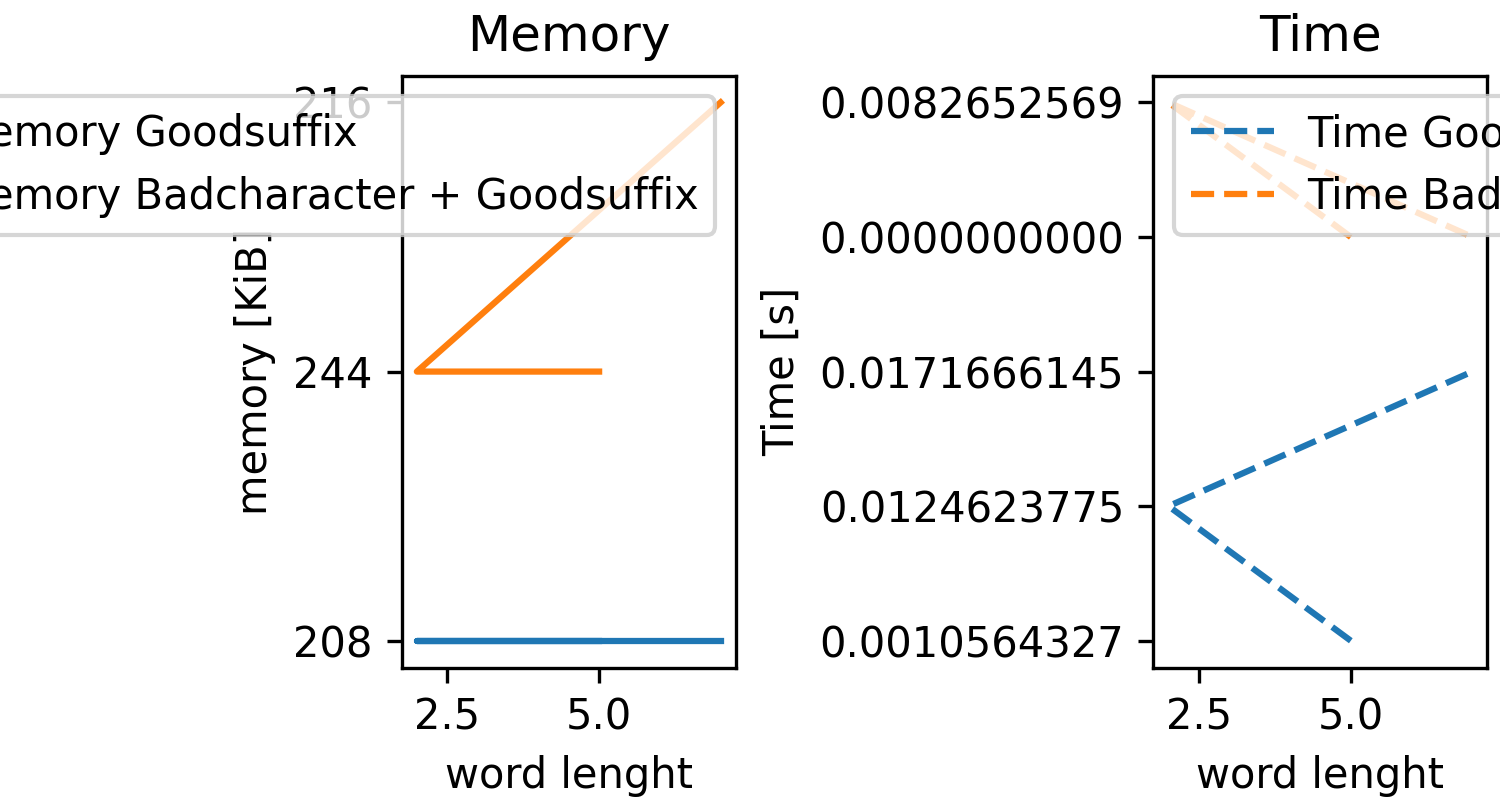
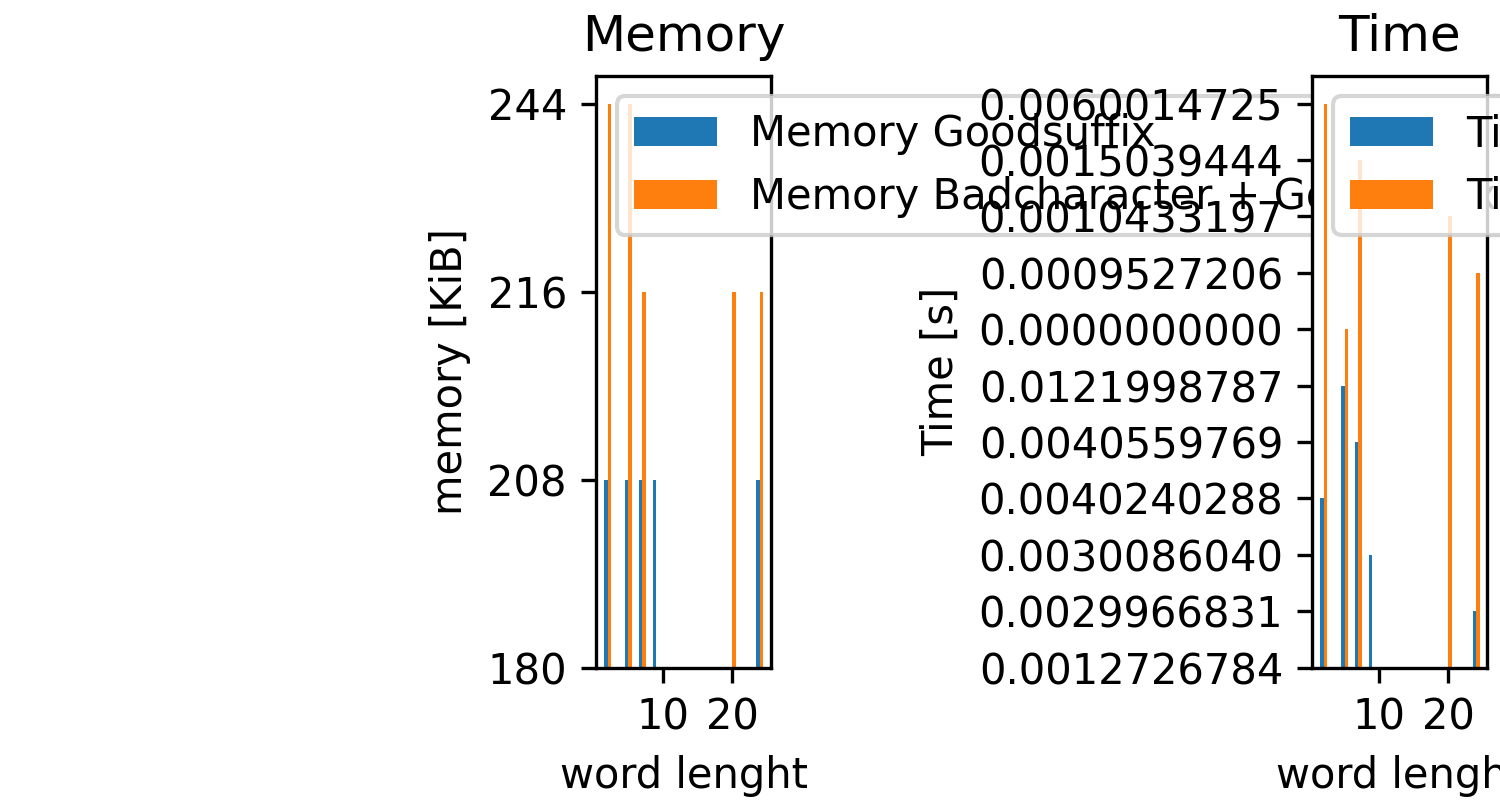
It does something finally :)

diff --git a/src/business_logic/util/graph.py b/src/business_logic/util/graph.py
@@ -1,8 +1,5 @@
-from cProfile import label
-from time import time
 import matplotlib.pyplot as plt
 import pandas as pd
-from pyparsing import line
 
 class Graph:
     """Class to drive graph for visualisation"""
@@ -22,17 +19,32 @@ class Graph:
         df = pd.DataFrame(data_dict)
         print(df)
 
-
-        # Note that even in the OO-style, we use `.pyplot.figure` to create the Figure.
         fig, ax = plt.subplots(1, 2, figsize=(5, 2.7), layout='constrained')
-        ax[0].plot(df[df['Heuristic'] == 'Goodsuffix']['Word lenght'], df[df['Heuristic'] == 'Goodsuffix']['Memory'], label='Memory Goodsuffix')  # Plot some data on the axes.
-        ax[0].plot(df[df['Heuristic'] == 'Badcharacter + Goodsuffix']['Word lenght'], df[df['Heuristic'] == 'Badcharacter + Goodsuffix']['Memory'], label='Memory Badcharacter + Goodsuffix')  # Plot some data on the axes.
-        ax[1].plot(df[df['Heuristic'] == 'Goodsuffix']['Word lenght'], df[df['Heuristic'] == 'Goodsuffix']['Time'], label='Time Goodsuffix', linestyle='--')  # Plot some data on the axes.
-        ax[1].plot(df[df['Heuristic'] == 'Badcharacter + Goodsuffix']['Word lenght'], df[df['Heuristic'] == 'Badcharacter + Goodsuffix']['Time'], label='Time Badcharacter + Goodsuffix', linestyle='--')  # Plot some data on the axes.
+
+        df1_h1 = df[df['Heuristic'] == 'Goodsuffix']
+        df1_h1 = df1_h1.sort_values(by=['Memory'], ascending=True)
+        print(df1_h1)
+        df1_h2 = df[df['Heuristic'] == 'Badcharacter + Goodsuffix']
+        df1_h2 = df1_h2.sort_values(by=['Memory'], ascending=True)
+        print(df1_h2)
+        ax[0].bar(df1_h1['Word lenght'] - 0.25, df1_h1['Memory'], label='Memory Goodsuffix', width = 0.5)  # Plot some data on the axes.
+        ax[0].bar(df1_h2['Word lenght'] + 0.25, df1_h2['Memory'], label='Memory Badcharacter + Goodsuffix', width = 0.5)  # Plot some data on the axes.
+
         ax[0].set_xlabel('word lenght')  # Add an x-label to the axes.
         ax[0].set_ylabel('memory [KiB]')  # Add a y-label to the axes.
         ax[0].set_title("Memory")  # Add a title to the axes.
         ax[0].legend();  # Add a legend.
+
+        df2_h1 = df[df['Heuristic'] == 'Goodsuffix']
+        df2_h1 = df2_h1.sort_values(by=['Time'], ascending=True)
+        print(df2_h1)
+
+        df2_h2 = df[df['Heuristic'] == 'Badcharacter + Goodsuffix']
+        df2_h2 = df2_h2.sort_values(by=['Time'], ascending=True)
+        print(df2_h2)
+        ax[1].bar(df2_h1['Word lenght'] - 0.25, df2_h1['Time'], label='Time Goodsuffix', width = 0.5)  # Plot some data on the axes.
+        ax[1].bar(df2_h2['Word lenght'] + 0.25, df2_h2['Time'], label='Time Badcharacter + Goodsuffix', width = 0.5)  # Plot some data on the axes.
+
         ax[1].set_xlabel('word lenght')  # Add an x-label to the axes.
         ax[1].set_ylabel('Time [s]')  # Add a y-label to the axes.
         ax[1].set_title("Time")  # Add a title to the axes.

diff --git a/src/test/main_test_script.py b/src/test/main_test_script.py
@@ -15,8 +15,6 @@ sys.path.append(parent_subdirectory)
 print("Test set 1: Tekst: Coffea arabica, Chromosome 1c i paterni: ATGCATG, TCTCTCTA, TTCACTACTCTCA")
 
 words = ['ATGCATG', 'TCTCTCTA', 'TTCACTACTCTCA']
-
-
 file = "../../data/chr1.fna" # enter relative path to the data
 #file = "C:\Users\tsretkovic\Desktop\skola\GI\PROJEKAT\chr1.fna.gz"
 
@@ -34,31 +32,31 @@ for word in words:
 
 
 
-###################### Test set 2 #########################
+# ###################### Test set 2 #########################
 
-print("Test set 2: Tekst: Mus pahari chromosome X, i paterni: ATGATG, CTCTCTA, TCACTACTCTCA")
+# print("Test set 2: Tekst: Mus pahari chromosome X, i paterni: ATGATG, CTCTCTA, TCACTACTCTCA")
 
-# TODO: add correct filepath
-words = ['ATGATG', 'CTCTCTA', 'TCACTACTCTCA']
-#file = "C:\Users\tsretkovic\Desktop\skola\GI\PROJEKAT\chr1.fna.gz"
+# # TODO: add correct filepath
+# words = ['ATGATG', 'CTCTCTA', 'TCACTACTCTCA']
+# #file = "C:\Users\tsretkovic\Desktop\skola\GI\PROJEKAT\chr1.fna.gz"
 
-for word in words:
-    # TODO: h1, h2, h1 + h2
-    program_4 = s.Search(file_path=file, word=word, heuristics=[hh.Badcharacter(word, alphabet), hh.Goodsuffix(word)])
-    program_4.do_magic()
-
-
+# for word in words:
+#     # TODO: h1, h2, h1 + h2
+#     program_4 = s.Search(file_path=file, word=word, heuristics=[hh.Badcharacter(word, alphabet), hh.Goodsuffix(word)])
+#     program_4.do_magic()
 
 
-###################### Test set 3 #########################
 
-print("Test set 3: Genom po slobodnom izboru iz NIH baze i proizvoljna 3 paterna različite dužine.")
 
-# TODO: change words and add correct filepath
-words = ['ATGCATG', 'TCTCTCTA', 'TTCACTACTCTCA']
-#file = "C:\Users\tsretkovic\Desktop\skola\GI\PROJEKAT\chr1.fna.gz"
+# ###################### Test set 3 #########################
 
-for word in words:
-    # TODO: h1, h2, h1 + h2
-    program_4 = s.Search(file_path=file, word=word, heuristics=[hh.Badcharacter(word, alphabet), hh.Goodsuffix(word)])
-    program_4.do_magic()
+# print("Test set 3: Genom po slobodnom izboru iz NIH baze i proizvoljna 3 paterna različite dužine.")
+
+# # TODO: change words and add correct filepath
+# words = ['ATGCATG', 'TCTCTCTA', 'TTCACTACTCTCA']
+# #file = "C:\Users\tsretkovic\Desktop\skola\GI\PROJEKAT\chr1.fna.gz"
+
+# for word in words:
+#     # TODO: h1, h2, h1 + h2
+#     program_4 = s.Search(file_path=file, word=word, heuristics=[hh.Badcharacter(word, alphabet), hh.Goodsuffix(word)])
+#     program_4.do_magic()

diff --git a/src/test/test_graphics.py b/src/test/test_graphics.py
@@ -25,6 +25,23 @@ program5.do_magic()
 program6 = s.Search(text=t, word='ATATATA', heuristics=[hh.Goodsuffix('ATATATA')])
 program6.do_magic()
 
-import business_logic.util.graph as g
+program7 = s.Search(text=t, word='GCGCGGGGC', heuristics=[hh.Badcharacter('GCGCGGGGC', alphabet), hh.Goodsuffix('GCGCGGGGC')])
+program7.do_magic()
 
-g.Graph().Drive([program, program2, program3, program4, program5, program6])
+program7 = s.Search(text=t, word='GCGCGGGGC', heuristics=[hh.Goodsuffix('GCGCGGGGC')])
+program7.do_magic()
+
+program8 = s.Search(text=t, word='CACTTATCGATGAAACAACT', heuristics=[hh.Badcharacter('CACTTATCGATGAAACAACT', alphabet), hh.Goodsuffix('CACTTATCGATGAAACAACT')])
+program8.do_magic()
+
+program9 = s.Search(text=t, word='CACTTATCGATGAAACAACT', heuristics=[hh.Goodsuffix('CACTTATCGATGAAACAACT')])
+program9.do_magic()
+
+program10 = s.Search(text=t, word='GCGCGGAAAGGCGCGCGGAAAGGC', heuristics=[hh.Badcharacter('GCGCGGAAAGGCGCGCGGAAAGGC', alphabet), hh.Goodsuffix('GCGCGGAAAGGCGCGCGGAAAGGC')])
+program10.do_magic()
+
+program11 = s.Search(text=t, word='GCGCGGAAAGGCGCGCGGAAAGGC', heuristics=[hh.Goodsuffix('GCGCGGAAAGGCGCGCGGAAAGGC')])
+program11.do_magic()
+
+import business_logic.util.graph as g
+g.Graph().Drive([program, program2, program3, program4, program5, program6, program11, program10, program9, program8, program7])

diff --git a/src/search.py b/src/search.py
@@ -68,5 +68,3 @@ class Search:
             h += " + " + type(self.__heuristics[1]).__name__
         return "{}".format(h)
 
-
-
